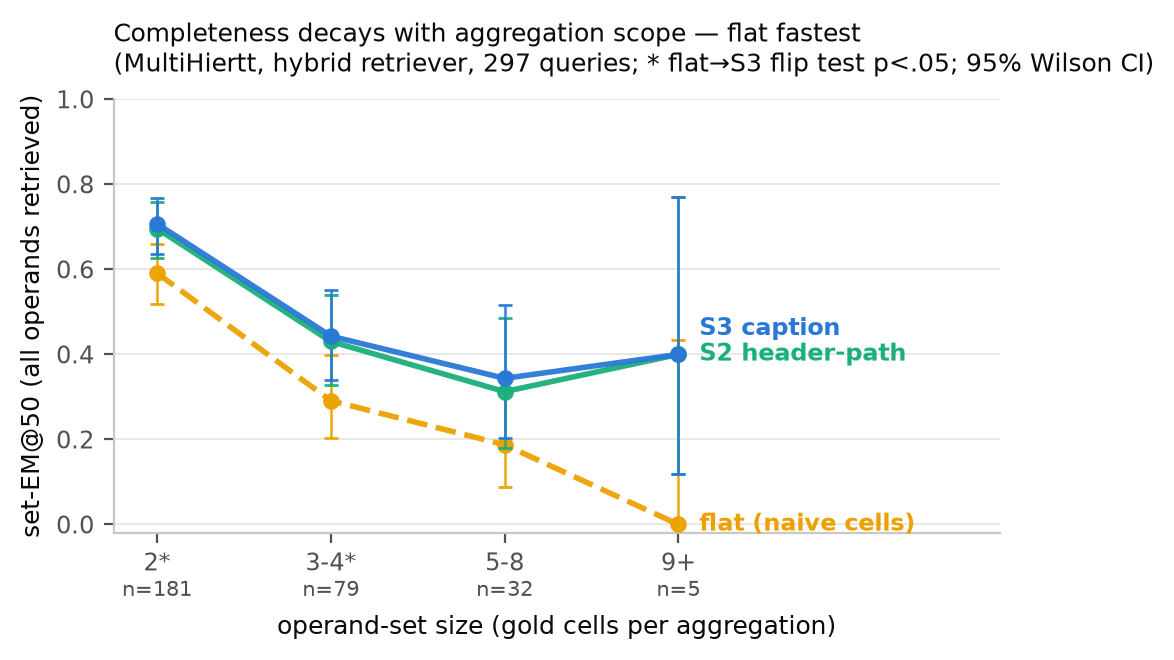
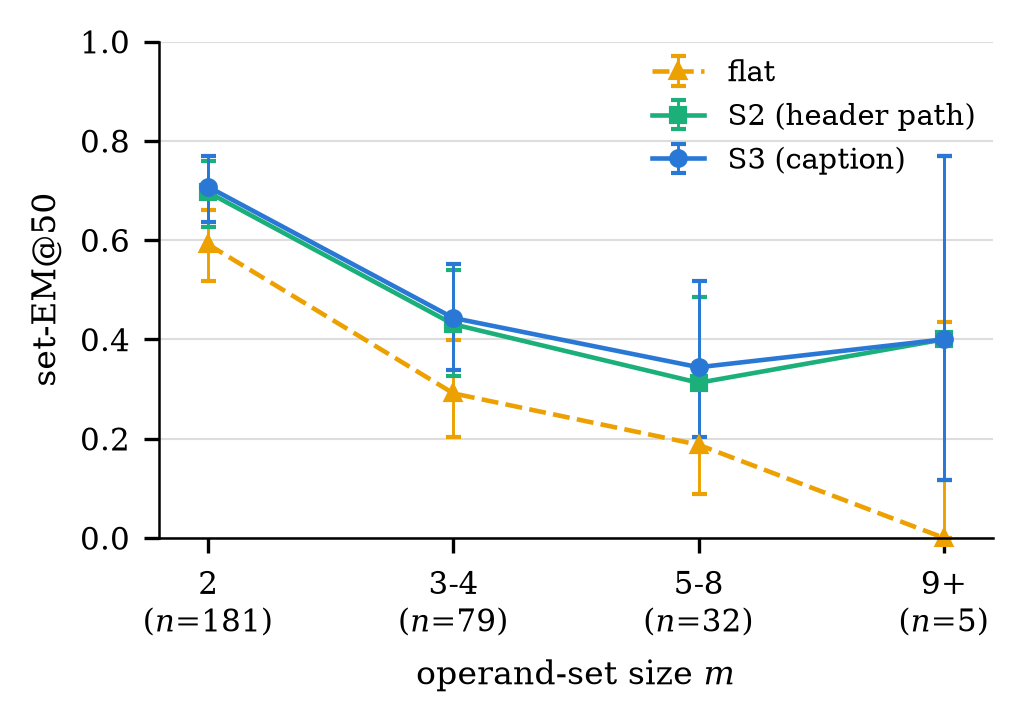
Restyle Figures 1-2 to ACL conventions: no in-figure titles (text moved to captions), serif, legends, single-column size, Type-42 fonts

diff --git a/rag-agent/scripts/fig2_reranker_2x2.py b/rag-agent/scripts/fig2_reranker_2x2.py
@@ -3,10 +3,14 @@
 """Figure 2: the strong-reranker 2x2 — reranking cannot buy completeness.
 
 {flat, S3} x {hybrid pool order, bge-reranker-large} on the SAME top-100 pools
-(n=297). Two panels (set-EM@10, set-EM@50); dashed lines = each scheme's
-pool ceiling@100, the score a PERFECT reranker over that pool would get.
-The exhibit: reranking *hurts* @10 in both schemes, and flat's ceiling (.566)
-sits below S3's actual @50 (.593) — the gain is candidate generation.
+(n=297), at k=10 and k=50; dashed line = each scheme's pool ceiling@100 (the
+score a PERFECT reranker over that pool would get). The exhibit: reranking
+hurts @10 in both schemes, and flat's ceiling (.566) sits below S3's actual
+@50 (.593) — the gain is candidate generation, not ranking.
+
+Publication style (ACL/EMNLP conventions): no in-figure title (message goes in
+the LaTeX caption, kept in PAPER_DRAFT.md §5.1c); serif fonts; legend box;
+condition encoded by fill+hatch (grayscale-safe), scheme by color+position.
 
 Reads results/operand_collision_rerank_n300.json;
 writes docs/fig2_reranker_2x2.{png,pdf}.
@@ -19,10 +23,26 @@ from pathlib import Path
 import matplotlib
 matplotlib.use("Agg")
 import matplotlib.pyplot as plt
+from matplotlib.lines import Line2D
+from matplotlib.patches import Patch
+
+plt.rcParams.update({
+    "font.family": "serif",
+    "font.serif": ["DejaVu Serif"],
+    "mathtext.fontset": "dejavuserif",
+    "font.size": 8,
+    "axes.labelsize": 8,
+    "axes.linewidth": 0.6,
+    "xtick.labelsize": 7.5,
+    "ytick.labelsize": 7.5,
+    "legend.fontsize": 6.6,
+    "hatch.linewidth": 0.5,
+    "pdf.fonttype": 42,
+    "ps.fonttype": 42,
+})
 
 ROOT = Path(__file__).resolve().parent.parent
-COLOR = {"S3": "#2a78d6", "flat": "#eda100"}
-INK, INK2 = "#0b0b0b", "#52514e"
+COLOR = {"flat": "#eda100", "S3": "#2a78d6"}
 
 
 def main() -> int:
@@ -30,50 +50,49 @@ def main() -> int:
         (ROOT / "results/operand_collision_rerank_n300.json").read_text())
     by = d["by_scheme"]
 
-    fig, axes = plt.subplots(1, 2, figsize=(6.4, 3.2), dpi=200, sharey=True)
-    fig.patch.set_facecolor("white")
+    fig, axes = plt.subplots(1, 2, figsize=(3.3, 1.9), dpi=300, sharey=True)
 
     for ax, k in zip(axes, (10, 50)):
-        ax.set_facecolor("white")
         xs, ticks = [], []
         for gi, scheme in enumerate(("flat", "S3")):
-            for ci, (cond, cond_label) in enumerate(
-                    (("hybrid_pool100", "pool\norder"),
-                     ("rerank_pool100", "re-\nranked"))):
-                x = gi * 2.9 + ci * 1.15
+            for ci, cond in enumerate(("hybrid_pool100", "rerank_pool100")):
+                x = gi * 2.4 + ci
                 y = by[scheme][cond][f"set_recall@{k}"]
-                ax.bar(x, y, width=0.92, color=COLOR[scheme],
-                       alpha=1.0 if ci == 0 else 0.55,
-                       hatch=None if ci == 0 else "//",
-                       edgecolor="white", linewidth=1, zorder=3)
-                ax.annotate(f"{y:.3f}", (x, y + 0.012), ha="center",
-                            fontsize=7.5, color=INK)
+                ax.bar(x, y, width=0.9, color=COLOR[scheme],
+                       alpha=1.0 if ci == 0 else 0.45,
+                       hatch=None if ci == 0 else "///",
+                       edgecolor="white", linewidth=0.6, zorder=3)
+                ax.annotate(f"{y:.2f}".lstrip("0"), (x, y + 0.015),
+                            ha="center", fontsize=6.3)
                 xs.append(x)
-                ticks.append(f"{scheme}\n{cond_label}")
+            ticks.append(scheme)
             ceil = by[scheme]["pool_ceiling@100"]
-            ax.hlines(ceil, gi * 2.9 - 0.65, gi * 2.9 + 1.8,
-                      color=COLOR[scheme], linestyle=":", lw=1.4, zorder=4)
-            if k == 50:
-                ax.annotate(f"perfect-reranker\nceiling {ceil:.3f}",
-                            (gi * 2.9 + 0.58, ceil + 0.015), ha="center",
-                            fontsize=6.8, color=COLOR[scheme])
-        ax.set_xticks(xs)
-        ax.set_xticklabels(ticks, fontsize=7.5, color=INK)
-        ax.set_title(f"set-EM@{k}", fontsize=9, color=INK)
-        ax.grid(axis="y", color="#e8e8e6", lw=0.7, zorder=0)
+            ax.hlines(ceil, gi * 2.4 - 0.6, gi * 2.4 + 1.6,
+                      color=COLOR[scheme], linestyle=(0, (2, 1.4)), lw=0.9,
+                      zorder=4)
+        ax.set_xticks([0.5, 2.9])
+        ax.set_xticklabels(ticks)
+        ax.set_title(f"$k={k}$", fontsize=8, pad=3)
+        ax.grid(axis="y", color="#dddddd", lw=0.5, zorder=0)
+        ax.set_axisbelow(True)
         for side in ("top", "right"):
             ax.spines[side].set_visible(False)
-        for side in ("left", "bottom"):
-            ax.spines[side].set_color("#c9c8c4")
-        ax.tick_params(colors=INK2, labelsize=8)
-        ax.set_ylim(0, 0.78)
-    axes[0].set_ylabel("set-EM (all operands retrieved)", fontsize=9,
-                       color=INK)
-    fig.suptitle("A strong reranker cannot buy completeness — "
-                 "flat's perfect-reranker ceiling (.566) < S3's actual @50 (.593)",
-                 fontsize=9, color=INK, x=0.02, ha="left")
+        ax.set_ylim(0, 0.75)
+        ax.tick_params(axis="x", length=0)
+    axes[0].set_ylabel("set-EM@$k$")
 
-    fig.tight_layout(rect=(0, 0, 1, 0.93))
+    handles = [
+        Patch(facecolor="#9a9a9a", edgecolor="white", label="pool order"),
+        Patch(facecolor="#9a9a9a", alpha=0.45, hatch="///",
+              edgecolor="white", label="reranked"),
+        Line2D([], [], color="#555555", linestyle=(0, (2, 1.4)), lw=0.9,
+               label="pool ceiling@100"),
+    ]
+    fig.legend(handles=handles, ncol=3, frameon=False,
+               loc="lower center", bbox_to_anchor=(0.55, -0.06),
+               handlelength=1.6, columnspacing=1.0, handletextpad=0.5)
+
+    fig.tight_layout(pad=0.4)
     for ext in ("png", "pdf"):
         out = ROOT / f"docs/fig2_reranker_2x2.{ext}"
         fig.savefig(out, bbox_inches="tight")

diff --git a/rag-agent/scripts/fig1_scope_decay.py b/rag-agent/scripts/fig1_scope_decay.py
@@ -2,13 +2,14 @@
 # SPDX-License-Identifier: MIT
 """Figure 1: set-EM@50 decay vs operand-set size (hybrid retriever, n=297).
 
-The paper's headline shape: completeness decays as the aggregation scope grows,
-flat decays fastest, and the S3-flat gap widens monotonically — completeness
-failure concentrates exactly where aggregation needs completeness most.
+Publication style (ACL/EMNLP conventions): no in-figure title — the message
+lives in the LaTeX caption (suggested caption kept in PAPER_DRAFT.md §5.1c);
+serif fonts sized for a single-column (~3.3in) figure; legend box; series
+distinguishable in grayscale (marker + linestyle, not color alone); Wilson 95%
+CIs (the 9+ bin has n=5 — the CI makes that honest instead of hiding it).
 
 Reads results/operand_collision_multihiertt_n300_scope_slices.json (P4 output);
-draws per-scheme decay curves with Wilson 95% CIs (the 9+ bin has n=5 — the CI
-makes that honest instead of hiding it). Writes docs/fig1_scope_decay.{png,pdf}.
+writes docs/fig1_scope_decay.{png,pdf}.
 """
 from __future__ import annotations
 
@@ -20,14 +21,30 @@ import matplotlib
 matplotlib.use("Agg")
 import matplotlib.pyplot as plt
 
+plt.rcParams.update({
+    "font.family": "serif",
+    "font.serif": ["DejaVu Serif"],
+    "mathtext.fontset": "dejavuserif",
+    "font.size": 8,
+    "axes.labelsize": 8,
+    "axes.linewidth": 0.6,
+    "xtick.labelsize": 7.5,
+    "ytick.labelsize": 7.5,
+    "legend.fontsize": 7,
+    "pdf.fonttype": 42,          # editable text in the PDF (camera-ready req.)
+    "ps.fonttype": 42,
+})
+
 ROOT = Path(__file__).resolve().parent.parent
 BIN_ORDER = ["2", "3-4", "5-8", "9+"]
 K = "@50"
 RETRIEVER = "hybrid"
-# validated reference palette, fixed categorical order (slot1..3)
-COLOR = {"S3": "#2a78d6", "S2": "#1baf7a", "flat": "#eda100"}
-LABEL = {"S3": "S3 caption", "S2": "S2 header-path", "flat": "flat (naive cells)"}
-INK, INK2 = "#0b0b0b", "#52514e"
+STYLE = {  # color + marker + linestyle: identity never rides on color alone
+    "flat": dict(color="#eda100", marker="^", linestyle="--"),
+    "S2": dict(color="#1baf7a", marker="s", linestyle="-"),
+    "S3": dict(color="#2a78d6", marker="o", linestyle="-"),
+}
+LABEL = {"flat": "flat", "S2": "S2 (header path)", "S3": "S3 (caption)"}
 
 
 def wilson(p: float, n: int, z: float = 1.96):
@@ -45,56 +62,31 @@ def main() -> int:
     xs = list(range(len(BIN_ORDER)))
     ns = [block[b]["n_queries"] for b in BIN_ORDER]
 
-    fig, ax = plt.subplots(figsize=(5.2, 3.4), dpi=200)
-    fig.patch.set_facecolor("white")
-    ax.set_facecolor("white")
-
-    end_y = {s: block[BIN_ORDER[-1]]["set_recall"][s][K]
-             for s in ("flat", "S2", "S3")}
-    # dodge coincident end-of-line labels apart (min separation in data units)
-    label_y = dict(end_y)
-    order = sorted(label_y, key=label_y.get)
-    for a, b in zip(order, order[1:]):
-        if label_y[b] - label_y[a] < 0.06:
-            label_y[b] = label_y[a] + 0.06
+    fig, ax = plt.subplots(figsize=(3.3, 2.3), dpi=300)
 
     for scheme in ("flat", "S2", "S3"):
         ys = [block[b]["set_recall"][scheme][K] for b in BIN_ORDER]
         los, his = zip(*(wilson(y, n) for y, n in zip(ys, ns)))
         errs = [[y - lo for y, lo in zip(ys, los)],
                 [hi - y for y, hi in zip(ys, his)]]
-        ax.errorbar(xs, ys, yerr=errs, color=COLOR[scheme], lw=2,
-                    marker="o", ms=5, capsize=2.5, elinewidth=0.9,
-                    alpha=0.95, linestyle="--" if scheme == "flat" else "-",
-                    zorder=3 if scheme == "flat" else 4)
-        ax.annotate(LABEL[scheme], (xs[-1] + 0.12, label_y[scheme]),
-                    color=COLOR[scheme], fontsize=8.5, va="center",
-                    fontweight="bold")
+        ax.errorbar(xs, ys, yerr=errs, lw=1.1, ms=3.5, capsize=1.8,
+                    elinewidth=0.7, label=LABEL[scheme], clip_on=False,
+                    **STYLE[scheme])
 
     ax.set_xticks(xs)
-    ax.set_xticklabels([f"{b}*" if block[b]["flip_test"]["S3"][K]
-                        ["p_two_sided"] < 0.05 else b for b in BIN_ORDER],
-                       fontsize=9, color=INK)
-    for x, n in zip(xs, ns):
-        ax.annotate(f"n={n}", (x, -0.145), xycoords=("data", "axes fraction"),
-                    ha="center", fontsize=7.5, color=INK2)
-    ax.set_xlabel("operand-set size (gold cells per aggregation)", fontsize=9,
-                  color=INK, labelpad=14)
-    ax.set_ylabel(f"set-EM{K} (all operands retrieved)", fontsize=9, color=INK)
-    ax.set_ylim(-0.02, 1.0)
-    ax.set_xlim(-0.25, len(BIN_ORDER) + 0.85)
-    ax.grid(axis="y", color="#e8e8e6", lw=0.7, zorder=0)
+    ax.set_xticklabels([f"{b}\n($n$={n})" for b, n in zip(BIN_ORDER, ns)])
+    ax.set_xlabel("operand-set size $m$")
+    ax.set_ylabel("set-EM@50")
+    ax.set_ylim(0, 1.0)
+    ax.set_xlim(-0.2, len(BIN_ORDER) - 0.8)
+    ax.grid(axis="y", color="#dddddd", lw=0.5, zorder=0)
+    ax.set_axisbelow(True)
     for side in ("top", "right"):
         ax.spines[side].set_visible(False)
-    for side in ("left", "bottom"):
-        ax.spines[side].set_color("#c9c8c4")
-    ax.tick_params(colors=INK2, labelsize=8.5)
-    ax.set_title("Completeness decays with aggregation scope — flat fastest\n"
-                 "(MultiHiertt, hybrid retriever, 297 queries; "
-                 "* flat→S3 flip test p<.05; 95% Wilson CI)",
-                 fontsize=9, color=INK, loc="left", pad=10)
+    ax.legend(frameon=False, loc="upper right", handlelength=1.8,
+              borderaxespad=0.2)
 
-    fig.tight_layout()
+    fig.tight_layout(pad=0.4)
     for ext in ("png", "pdf"):
         out = ROOT / f"docs/fig1_scope_decay.{ext}"
         fig.savefig(out, bbox_inches="tight")

diff --git a/rag-agent/docs/PAPER_DRAFT.md b/rag-agent/docs/PAPER_DRAFT.md
@@ -234,8 +234,13 @@ precisely this slice (median 11.5, reached@50 0.52), lifting hybrid set_recall@5
 **0.458→0.593** (paired flips 44:9, **p=4.2e-9**). (2) The gap **widens monotonically
 with operand-set size** (Δ@50 +.116/+.152/+.156/+.400 for scope 2/3–4/5–8/9+, first
 two strata significant; flat collapses .591→.291→.188→.000) — completeness failure
-concentrates exactly where aggregation needs completeness most (**Figure 1**,
-`docs/fig1_scope_decay.png`, Wilson CIs; generated by `scripts/fig1_scope_decay.py`). (3) A strong
+concentrates exactly where aggregation needs completeness most (**Figure 1**).
+  > *Fig. 1 caption:* Set-level exact match (set-EM@50) by operand-set size
+  > $m$ on MultiHiertt (hybrid retriever, 297 queries; bars are 95% Wilson
+  > CIs). Completeness decays with aggregation scope for every serialization,
+  > but flat decays fastest (.59→.00) while S2/S3 hold .40 even at $m{\ge}9$;
+  > the flat→S3 gap is significant for the $m{=}2$ and $m{=}3\text{–}4$ strata
+  > (paired flip test, $p<.005$). (`scripts/fig1_scope_decay.py`) (3) A strong
 cross-encoder reranker (**bge-reranker-large**) over the *same* top-100 pool, same
 final-k, does **not** rescue flat (not a truncation artifact: reranker input pairs
 are median 40 / max 95 tokens, so max_length=192 never truncates, and an n=50
@@ -246,8 +251,14 @@ k=50 (+.034, p=.13); flat-with-reranker still loses to plain S3 hybrid at every 
 (@10 p=3.8e-6, @50 p=1.0e-4); and flat's **pool ceiling@100 = .566** — the score a
 *perfect* reranker over that pool would get — is **below S3's actual @50 = .593**. The
 ceiling is in **candidate generation**, not ranking; serialization must inject the
-disambiguating structure before the pool is formed (**Figure 2**,
-`docs/fig2_reranker_2x2.png`). Claims here are for hybrid/BM25;
+disambiguating structure before the pool is formed (**Figure 2**).
+  > *Fig. 2 caption:* A strong cross-encoder reranker (bge-reranker-large)
+  > cannot buy completeness: over identical top-100 hybrid pools (n=297),
+  > reranking *lowers* set-EM@10 for both serializations (flat .31→.24,
+  > $p{=}.005$; S3 .37→.29, $p{=}.002$) and is n.s. at $k{=}50$. Dashed lines
+  > mark each pool's ceiling — the set-EM a *perfect* reranker could reach;
+  > flat's ceiling (.57) lies below S3's actual @50 (.59), so no reranker over
+  > flat candidates can match S3. (`scripts/fig2_reranker_2x2.py`) Claims here are for hybrid/BM25;
 dense alone shows the level shift but not the slope pattern (per-query paired tests:
 dense flat→S3 significant on recall/nDCG/MRR, n.s. on set-EM — the gain is real but
 does not concentrate into complete operand sets).